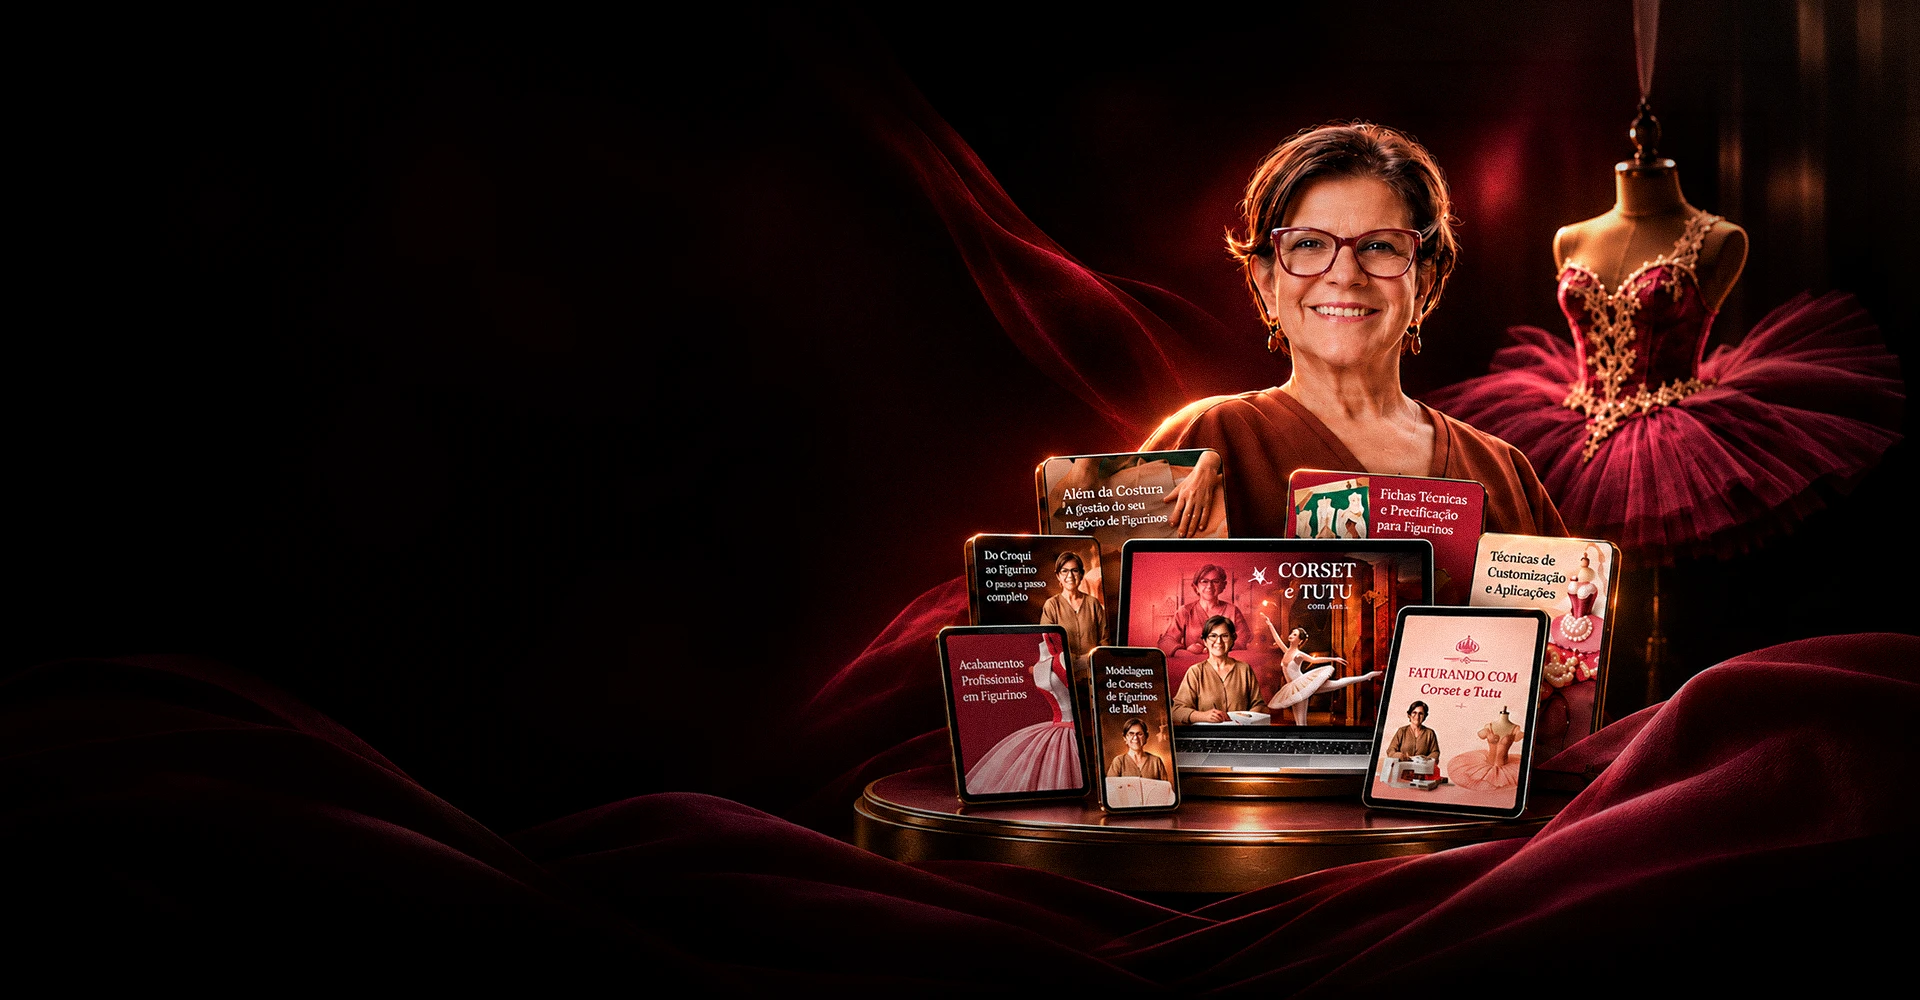
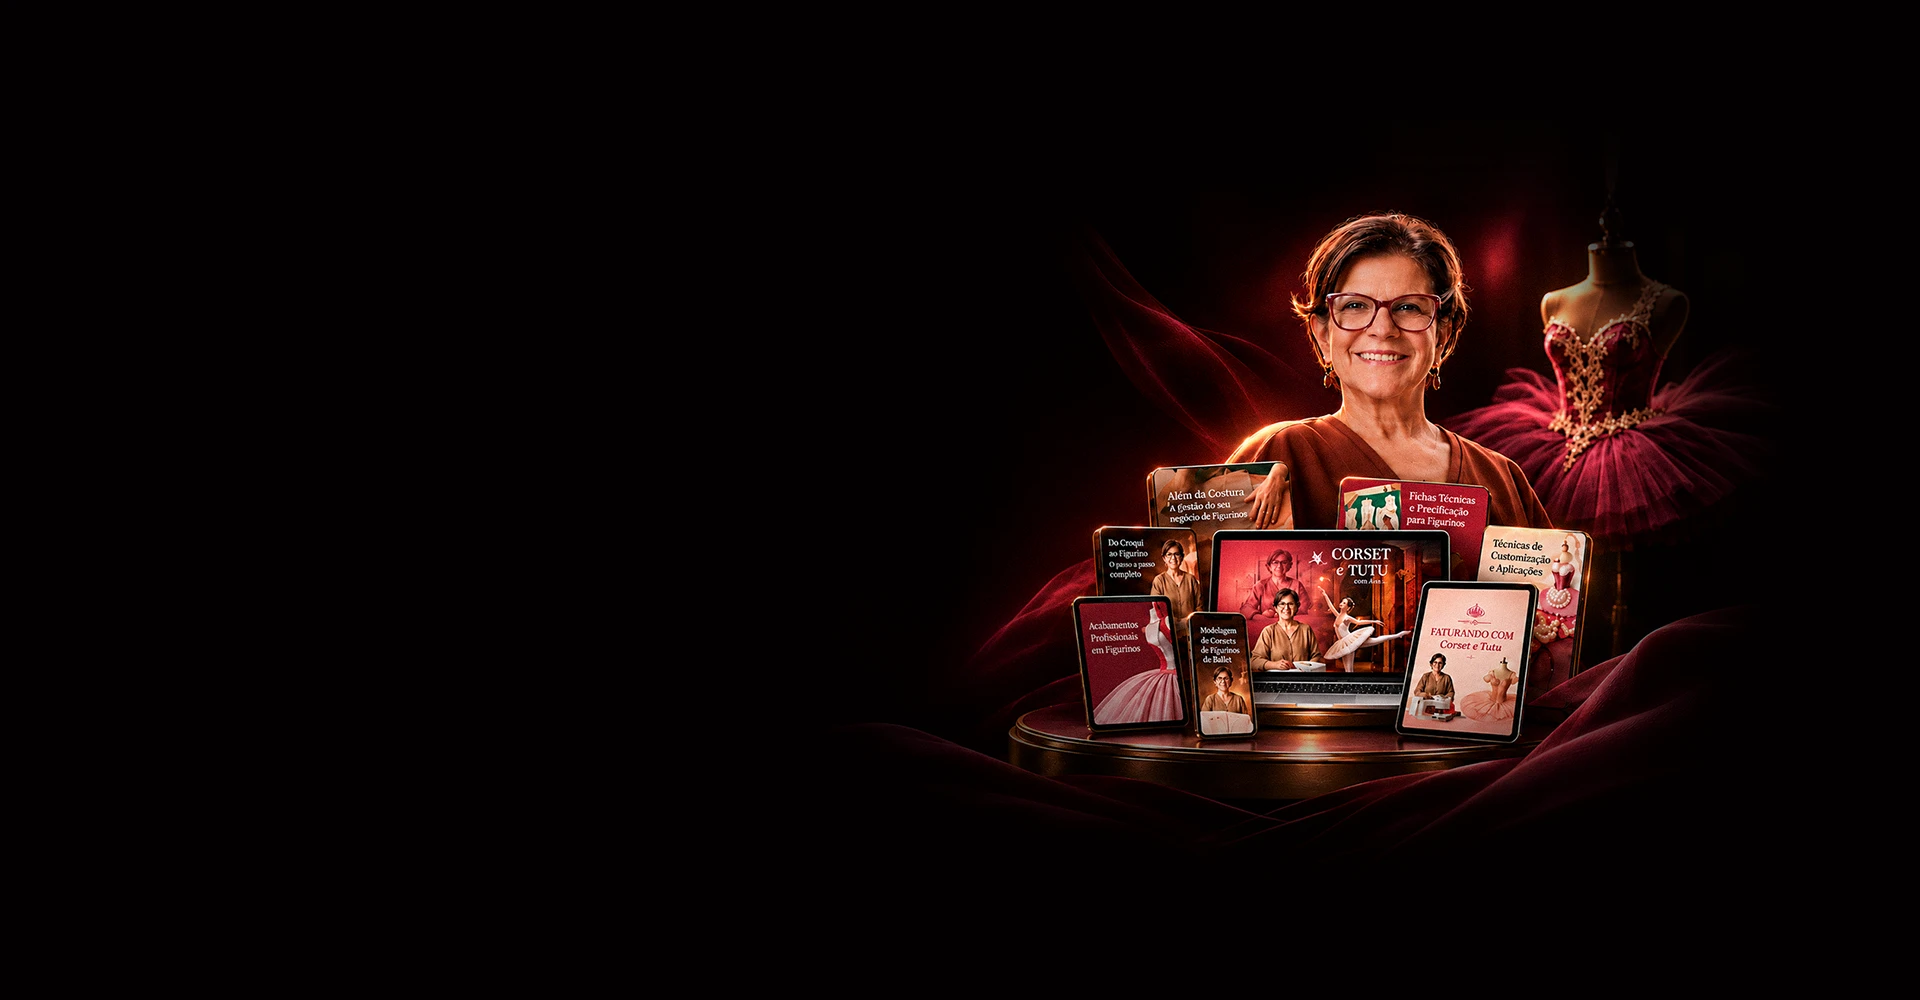
Full-bleed hero image and prevent widows in headings

diff --git a/vendas.css b/vendas.css
@@ -49,8 +49,8 @@ h2 em{font-style:normal;color:var(--accent)}
 /* 1ª dobra */
 .hero{position:relative;color:#fff;background:var(--wine-deep);overflow:hidden}
 .hero__image,.hero__shade{position:absolute;inset:0}
-.hero__image{background:url('assets/hero-vendas.webp') right bottom/auto min(100%,48vw) no-repeat}
-.hero__shade{background:linear-gradient(90deg,#0a0607 0%,rgba(10,6,7,.9) 32%,rgba(10,6,7,.35) 50%,transparent 62%),linear-gradient(0deg,#0a0607 0%,rgba(10,6,7,.4) 16%,transparent 34%),linear-gradient(180deg,rgba(10,6,7,.6) 0%,transparent 18%)}
+.hero__image{background:url('assets/hero-vendas.webp?v=2') center/cover no-repeat}
+.hero__shade{background:linear-gradient(90deg,rgba(10,6,7,.75) 0%,rgba(10,6,7,.4) 35%,transparent 55%),linear-gradient(0deg,#0a0607 0%,transparent 22%)}
 .hero__inner{position:relative;z-index:2;min-height:900px;padding-block:80px 170px;display:flex;align-items:center}
 .hero__content{width:600px;max-width:48%}
 .hero__logo{width:411px;margin-bottom:34px}
@@ -188,7 +188,7 @@ h2 em{font-style:normal;color:var(--accent)}
   .hero__lead{font-size:19px}
   .hero__support{font-size:18px;padding-left:16px}
   .hero__support .hero__forever{font-size:28px}
-  .hero__image{position:relative;inset:auto;order:1;height:370px;background-size:auto 370px;background-position:74% center}
+  .hero__image{position:relative;inset:auto;order:1;height:380px;background-size:auto 440px;background-position:91% 52%}
   .hero__image::after{content:"";position:absolute;inset:0;background:linear-gradient(180deg,#0a0607 0%,rgba(10,6,7,.35) 25%,rgba(10,6,7,.3) 65%,#0a0607 100%),linear-gradient(90deg,rgba(10,6,7,.5),transparent 40%,transparent 70%,rgba(10,6,7,.5))}
   .hero__shade{display:none}
   .section-divider--hero{order:2;position:relative;margin-top:-1px}
@@ -222,3 +222,6 @@ h2 em{font-style:normal;color:var(--accent)}
   .footer__logo{width:240px}
 }
 @media(prefers-reduced-motion:reduce){html{scroll-behavior:auto}*,*::before,*::after{transition:none!important}}
+/* Evita palavra sozinha na última linha (viúva). */
+h1,h2,h3,.offer__highlight,.library__subtitle{text-wrap:balance}
+p{text-wrap:pretty}

diff --git a/vendas.html b/vendas.html
@@ -9,7 +9,7 @@
   <link rel="preconnect" href="https://fonts.googleapis.com">
   <link rel="preconnect" href="https://fonts.gstatic.com" crossorigin>
   <link href="https://fonts.googleapis.com/css2?family=DM+Sans:wght@400;500;600;700&family=Manrope:wght@400;500;600;700;800&display=swap" rel="stylesheet">
-  <link rel="stylesheet" href="vendas.css?v=6">
+  <link rel="stylesheet" href="vendas.css?v=9">
   <script src="vendas.js?v=3" defer></script>
 </head>
 <body>
@@ -36,8 +36,8 @@
     <div class="shell hero__inner">
       <div class="hero__content">
         <img class="hero__logo" src="assets/logo-black-ana-vendas.svg" width="411" height="80" alt="Black Friday Faturando com Corset e Tutu Vitalício">
-        <h1 class="hero__title">A maior oferta da história está no ar</h1>
-        <p class="hero__lead"><strong>A Black Friday mais esperada por quem quer viver de figurinos de ballet</strong> — com uma condição que você nunca viu antes: pague uma única vez e tenha acesso para sempre.</p>
+        <h1 class="hero__title">A maior oferta da história está no&nbsp;ar</h1>
+        <p class="hero__lead"><strong>A Black Friday mais esperada por quem quer viver de figurinos de ballet</strong> — com uma condição que você nunca viu antes: pague uma única vez e tenha acesso para&nbsp;sempre.</p>
         <p class="hero__support">Garanta agora o seu <strong>acesso vitalício</strong> a todos os cursos que já criei <strong>e a todos os que eu criar daqui para frente.</strong> Sem renovação. Sem mensalidade. <strong class="hero__forever">PARA SEMPRE!!!</strong></p>
         <a class="button button--gold" href="#oferta" data-checkout>Quero meu acesso vitalício agora <span aria-hidden="true">↗</span></a>
       </div>
